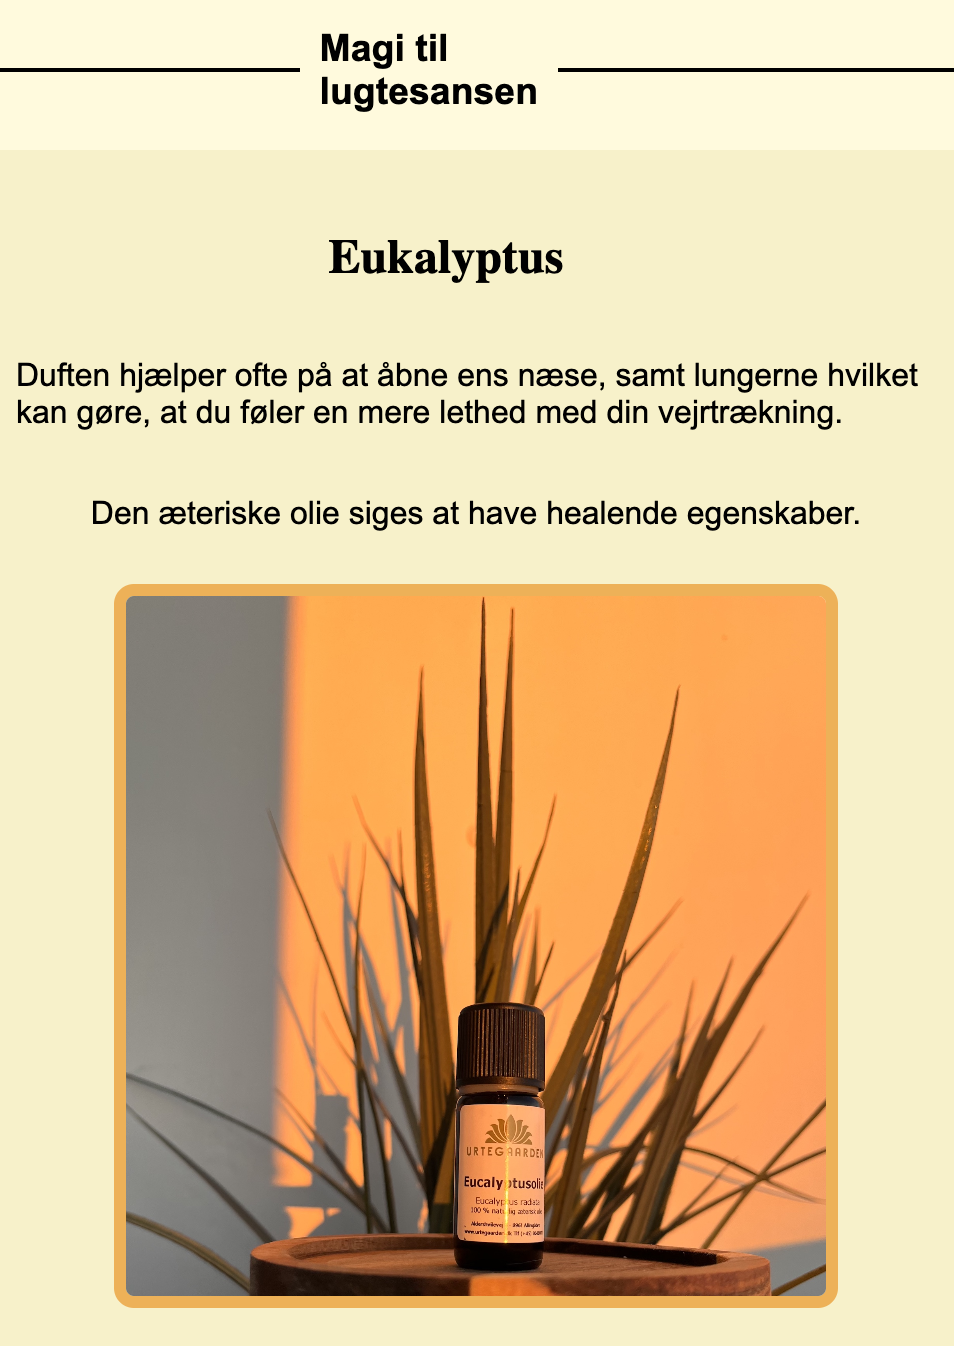
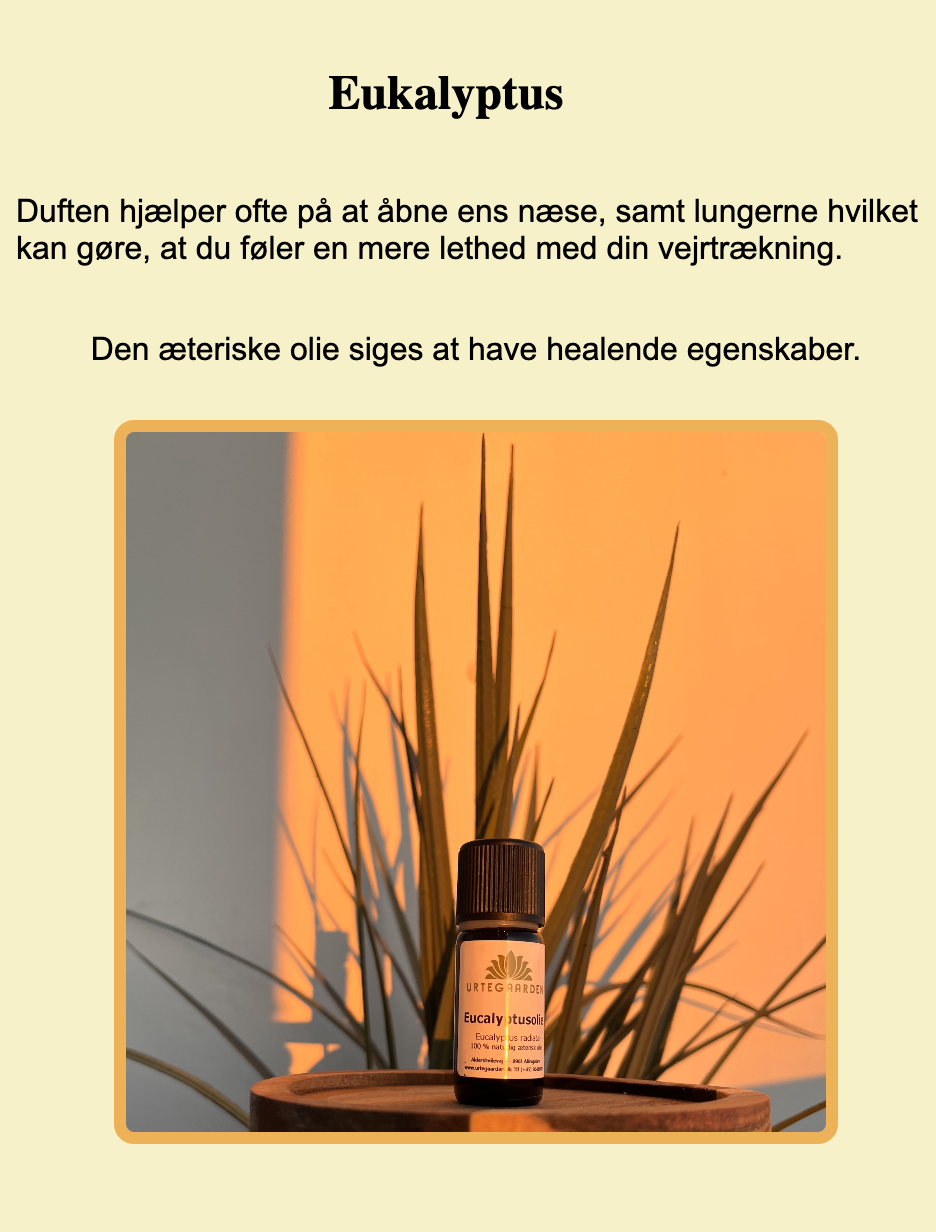
satte nye img ind og ændrede noget tekst også

diff --git a/css/style.css b/css/style.css
@@ -556,6 +556,142 @@ a {
   
 } */
 
+.Tema3 {
+  font-family: Delius;
+  font-size: 34px;
+  margin-left: 35px;
+}
+
+.emnesiteopgaven {
+font-family: RedditExtralight;
+font-size: 16px;
+}
+
+.seemnesite {
+font-family: Redditlight;
+font-size: 14px;
+}
+
+.temalaering3p {
+  font-family: ;
+}
+
+.minproces3 {
+  font-family: Delius;
+  font-size: 24px;
+  color: #C54298;
+  margin-left: 35px;
+  margin-top: 70px;
+}
+
+.minloesning3 {
+  font-family: Delius;
+  font-size: 24px;
+  color: #C54298;
+  margin-left: 35px;
+  margin-top: 70px;
+}
+
+.minlaering3 {
+  font-family: Delius;
+  font-size: 24px;
+  color: #C54298;
+  margin-left: 35px;
+  margin-top: 70px;
+}
+
+.screenshoot3 {
+   font-family: Delius;
+  font-size: 24px;
+  color: #C54298;
+  margin-left: 35px;
+  margin-top: 70px;
+}
+
+.websitebutton3 {
+  background-color: #CDF0CA;
+  text-align: center;
+  text-decoration: none;
+  font-size: 16px;
+  padding: 10px 20px;
+  font-family: RedditLight;
+  border-radius: 12px;
+  margin-left: 40px;
+a {
+   text-decoration: none;
+   color: #171717; 
+}
+}
+
+.websitebutton3:hover {
+  background-color: #F8D3F8;
+  color: #D97CB9;
+}
+
+#aeteriskeolier {
+  width: 80%;
+  border-color: #171717;
+  border-width: 2px;
+  border-style: solid;
+}
+
+#livsstil {
+  width: 70%;
+  border-color: #171717;
+  border-width: 2px;
+  border-style: solid;
+  margin-left: 50px;
+}
+
+#magi {
+  width: 70%;
+  border-color: #171717;
+  border-width: 2px;
+  border-style: solid;
+}
+
+
+
+#hvemerjeg {
+  width: 70%;
+  border-color: #171717;
+  border-width: 2px;
+  border-style: solid;
+  margin-left: 40px;
+}
+
+#kodningemnesite {
+  width: 70%;
+  border-color: #171717;
+  border-width: 2px;
+  border-style: solid;
+  margin-left: 40px;
+}
+
+#kodningemnesite2 {
+  width: 70%;
+  border-color: #171717;
+  border-width: 2px;
+  border-style: solid;
+  margin-left: 40px;
+}
+
+
+.grid-container {
+  display: grid;
+  grid-template-columns: 1fr 1fr;
+  /* gap: 2rem; */
+  padding: 1rem;
+}
+
+/* Indlejret grid til billeder i proces */
+.proces-billeder {
+  display: grid;
+  grid-template-columns: 1fr 1fr;
+  gap: 1rem;
+  width: 100%;
+}
+
 
 
 
@@ -783,10 +919,6 @@ a {
   margin-top: 50px;
   }
 
-  
-
-
-
 .Temaopgaverne{
     font-family: Delius;
     font-size: 34px;
@@ -977,5 +1109,107 @@ a {
   margin-bottom: 100px;
 }
 
+
+
+/* tema3 */
+
+
+.Tema3 {
+  font-family: Delius;
+  font-size: 60px;
+  margin-left: 35px;
+}
+
+.emnesiteopgaven {
+font-family: RedditExtralight;
+font-size: 20px;
+}
+
+.minproces3 {
+  font-family: Delius;
+  font-size: 34px;
+  color: #C54298;
+  margin-left: 35px;
+  margin-top: 70px;
+}
+
+.minloesning3 {
+   font-family: Delius;
+  font-size: 34px;
+  color: #C54298;
+  margin-left: 35px;
+  margin-top: 70px;
+}
+
+.minlaering3 {
+  font-family: Delius;
+  font-size: 34px;
+  color: #C54298;
+  margin-left: 35px;
+  margin-top: 70px;
+}
+
+.screenshoot3 {
+   font-family: Delius;
+  font-size: 34px;
+  color: #C54298;
+  margin-left: 35px;
+  margin-top: 70px;
+}
+
+
+.websitebutton3 {
+  background-color: #CDF0CA;
+  text-align: center;
+  text-decoration: none;
+  font-size: 20px;
+  padding: 20px 40px;
+  font-family: RedditLight;
+  border-radius: 12px;
+a {
+   text-decoration: none;
+   color: #171717; 
+}
+}
+
+
+#hvemerjeg {
+  width: 70%;
+  border-color: #171717;
+  border-width: 2px;
+  border-style: solid;
+  margin-bottom: 100px;
+  margin-left: 170px;
+}
+
+#kodningemnesite {
+  border-color: #171717;
+  border-width: 2px;
+  border-style: solid;
+  margin-bottom: 100px;
+  margin-left: 170px;
+}
+
+#kodningemnesite2 {
+   border-color: #171717;
+  border-width: 2px;
+  border-style: solid;
+  margin-bottom: 100px;
+  margin-left: 170px;
+}
+
+.temaproces3p {
+  margin-right: 800px;
+}
+
+.temalaering3p {
+  margin-right: 800px;
+  margin-bottom: 100px;
+}
+
+.seemnesite {
+font-family: RedditLight;
+font-size: 20px;
+}
 
 }

diff --git a/tema3.html b/tema3.html
@@ -52,10 +52,10 @@
           har for formidlingen af budskabet.
         </p>
         <div class="proces-billeder">
-          <img id="livsstil" src="img/livsstil.png" alt="livsstils tekst" />
+          <img id="livsstil" src="img/Livsstil.png" alt="livsstils tekst" />
           <img
             id="magi"
-            src="img/Magi.png"
+            src="img/magi.png"
             alt="billede af æteriskolie med beskrivelse"
           />
         </div>
